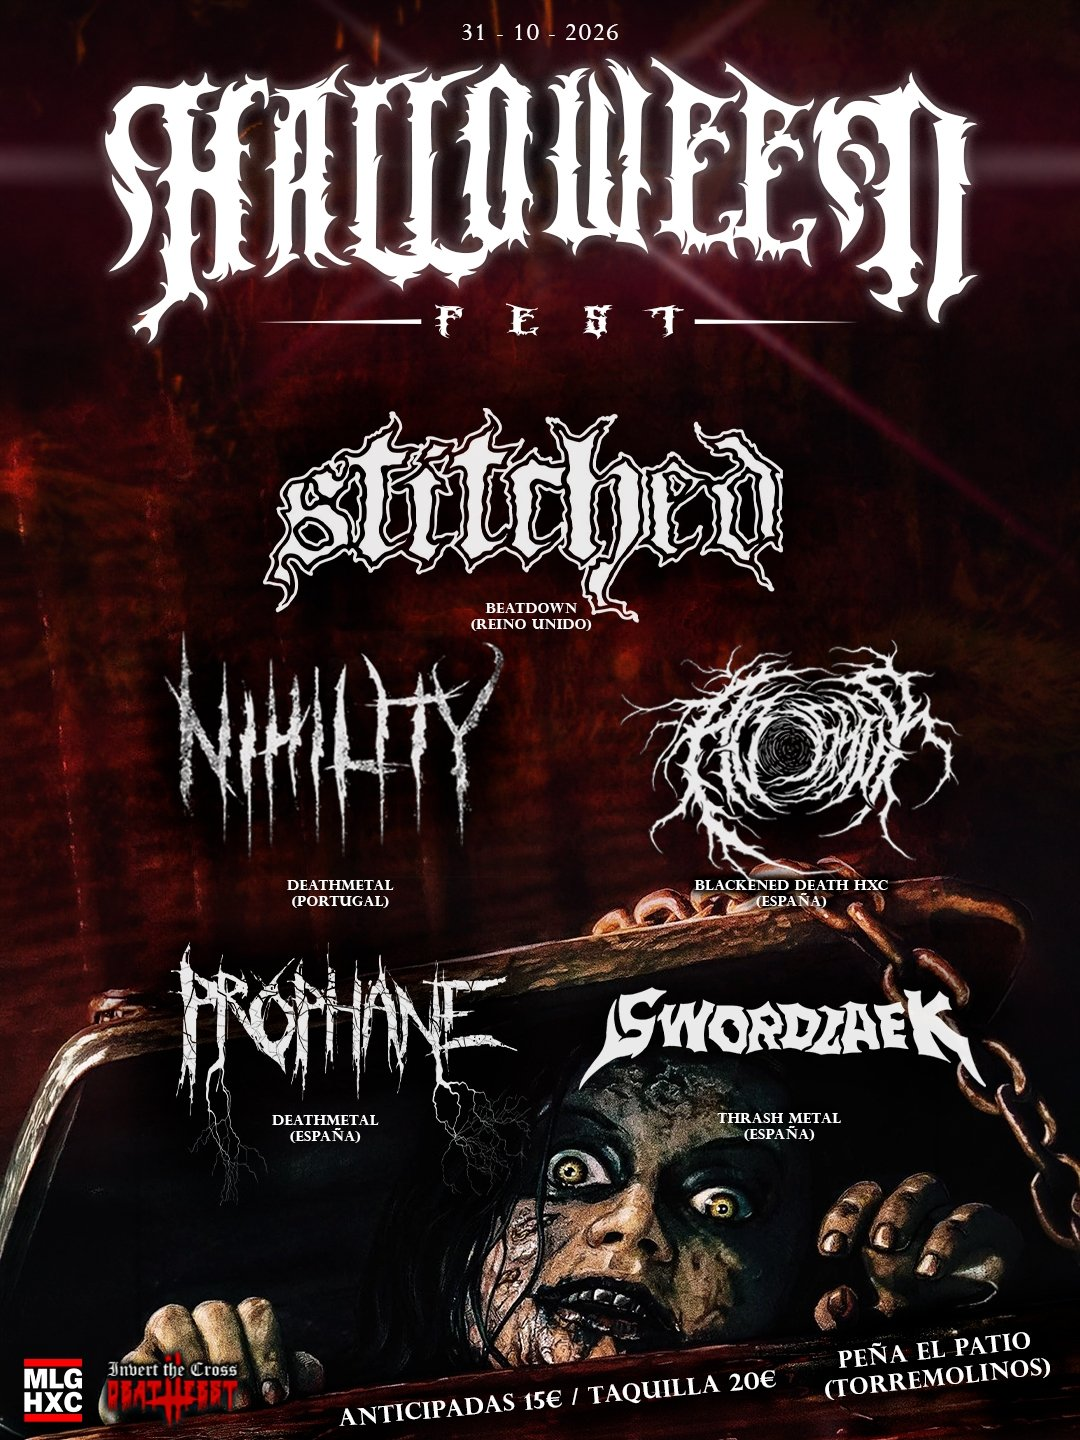
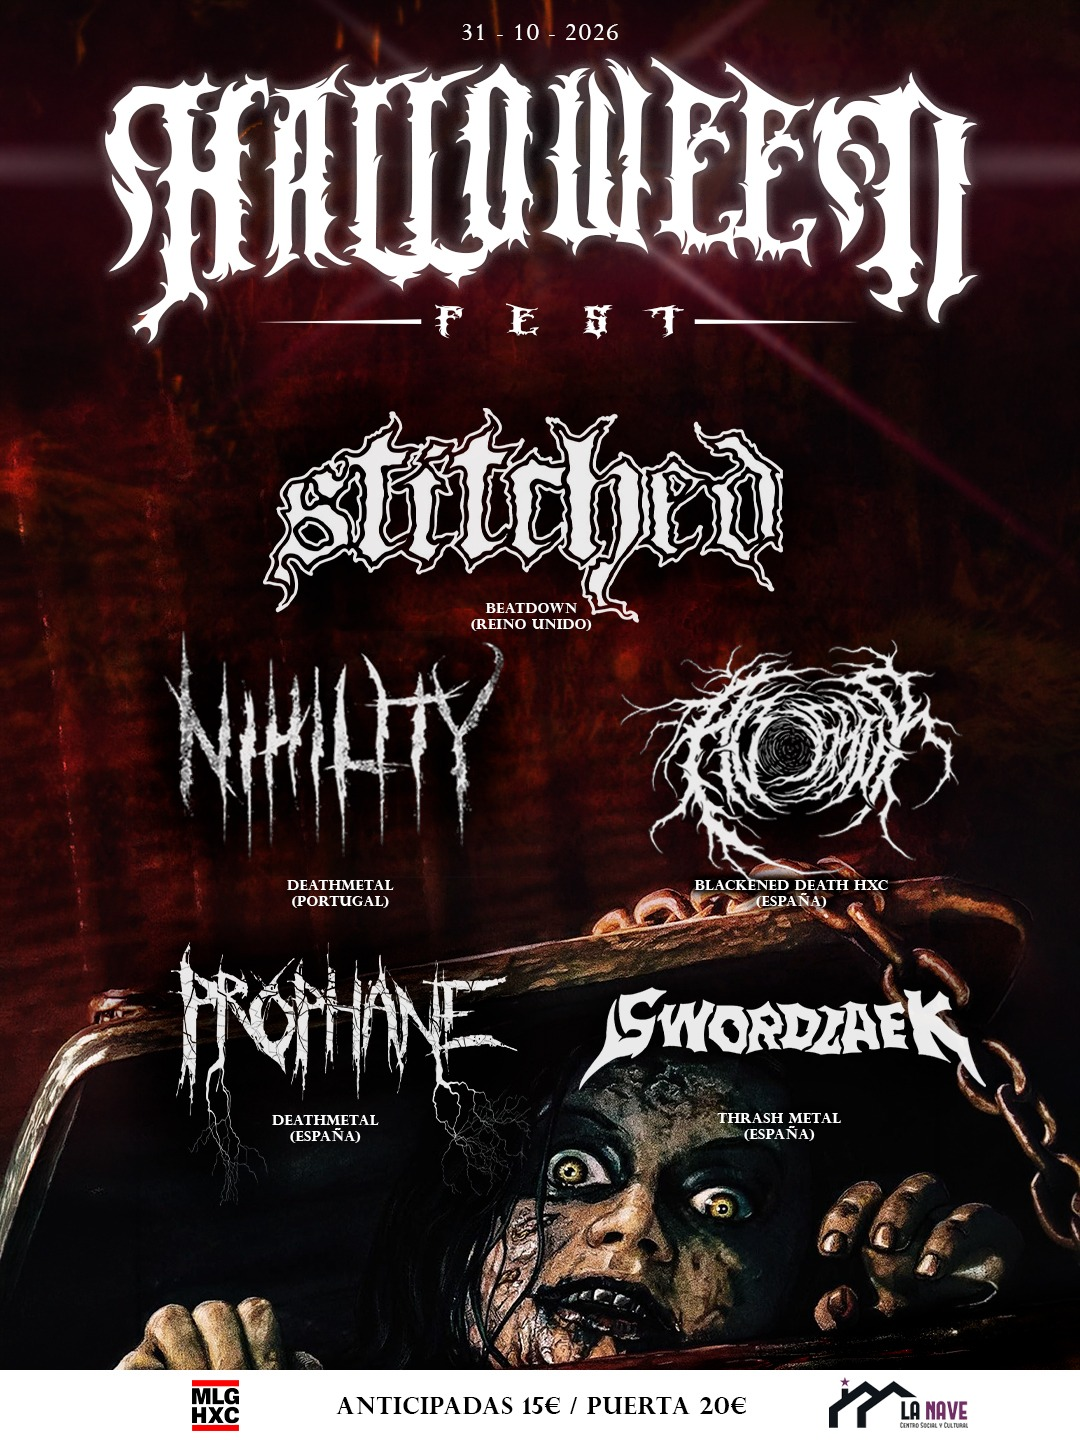
cambio cartel halloween

Changed region(s): [[0.0, 0.9062, 1.0, 1.0]]

diff --git a/eventos-data.js b/eventos-data.js
@@ -11,7 +11,7 @@
 // El cartel va en la raíz de la web (p.ej. cartel-halloween.jpg).
 const PROXIMOS = [
   { nombre:'Halloween Fest', dia:'31', mes:'OCT',
-    lugar:'Peña El Patio · Torremolinos', cartel:'cartel-halloween.jpg',
+    lugar:'La Nave', cartel:'cartel-halloween.jpg',
     alt:'Halloween Fest — Stitched, Nihility, Abysser, Prophane, Swordlaek',
     descripcion:'Stitched + Nihility + Abysser + Prophane + Swordlaek. Anticipadas 15&euro; / Taquilla 20&euro;.',
     entradas:'https://entradium.com/es/events/halloween-fest-torremolinos' }

diff --git a/en/eventos.html b/en/eventos.html
@@ -88,7 +88,7 @@
     <p class="copyright">© <span id="anio"></span> Málaga Hardcore · Cultural Association. Made with noise.</p>
   </footer>
 
-  <script src="../eventos-data.js?v=20261019"></script>
+  <script src="../eventos-data.js?v=20261024"></script>
   <script>
     document.querySelector('.nav-toggle').addEventListener('click', function () {
       document.querySelector('.nav').classList.toggle('abierto');

diff --git a/en/historico.html b/en/historico.html
@@ -88,7 +88,7 @@
     <p class="copyright">© <span id="anio"></span> Málaga Hardcore · Cultural Association. Made with noise.</p>
   </footer>
 
-  <script src="../eventos-data.js?v=20261019"></script>
+  <script src="../eventos-data.js?v=20261024"></script>
   <script>
     document.querySelector('.nav-toggle').addEventListener('click', function () {
       document.querySelector('.nav').classList.toggle('abierto');

diff --git a/eventos.html b/eventos.html
@@ -88,7 +88,7 @@
     <p class="copyright">© <span id="anio"></span> Málaga Hardcore · Asociación Cultural. Hecho con ruido.</p>
   </footer>
 
-  <script src="eventos-data.js?v=20261019"></script>
+  <script src="eventos-data.js?v=20261024"></script>
   <script>
     document.querySelector('.nav-toggle').addEventListener('click', function () {
       document.querySelector('.nav').classList.toggle('abierto');

diff --git a/historico.html b/historico.html
@@ -88,7 +88,7 @@
     <p class="copyright">© <span id="anio"></span> Málaga Hardcore · Asociación Cultural. Hecho con ruido.</p>
   </footer>
 
-  <script src="eventos-data.js?v=20261019"></script>
+  <script src="eventos-data.js?v=20261024"></script>
   <script>
     document.querySelector('.nav-toggle').addEventListener('click', function () {
       document.querySelector('.nav').classList.toggle('abierto');

diff --git a/en/index.html b/en/index.html
@@ -188,7 +188,7 @@
     <p class="copyright">© <span id="anio"></span> Málaga Hardcore · Cultural Association. Made with noise.</p>
   </footer>
 
-  <script src="../eventos-data.js?v=20261019"></script>
+  <script src="../eventos-data.js?v=20261024"></script>
   <script>
     // Menú móvil
     document.querySelector('.nav-toggle').addEventListener('click', function () {

diff --git a/index.html b/index.html
@@ -189,7 +189,7 @@
     <p class="copyright">© <span id="anio"></span> Málaga Hardcore · Asociación Cultural. Hecho con ruido.</p>
   </footer>
 
-  <script src="eventos-data.js?v=20261019"></script>
+  <script src="eventos-data.js?v=20261024"></script>
   <script>
     // Menú móvil
     document.querySelector('.nav-toggle').addEventListener('click', function () {
